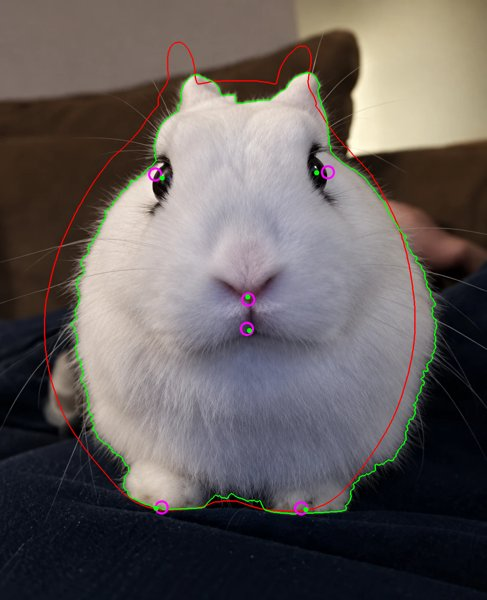
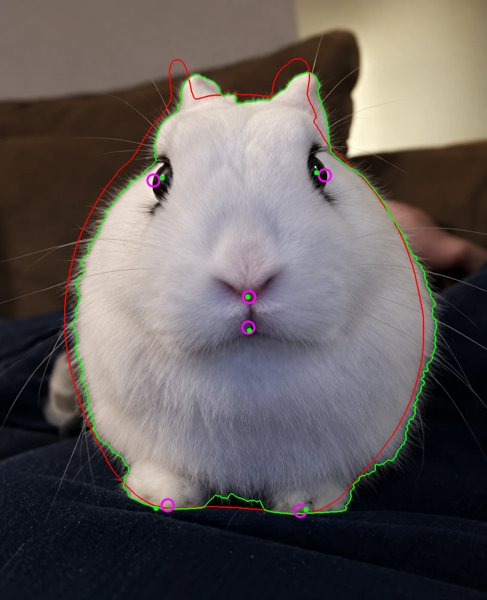
Step A done as far as the photos allow: every photo traced; cameras solved and checked by eye
Hold: master, sheet 01-04, 07-09, 11, 17, 18; close-ups 02, 03, 06, 08,
09, 10, 12, 14, 19-21, 25, 26; most of the edited set. Rough: edited loaf
and peet-lift-left, close-up 07. Not solved (too little of him, or his
posture too far from the model's): sheet 10, 13-16, one edited head turn,
close-ups 01, 04, 05, 11, 13, 15-18, 22-24, 27 (used by eye in step F).

Claude-Session: https://claude.ai/code/session_01Jpq1ePz28RyGQHC2YVxQdH

Changed region(s): [[0.0616, 0.06, 0.8932, 0.87], [0.4004, 0.81, 0.6776, 0.87], [0.4928, 0.48, 0.5236, 0.57]]

diff --git a/docs/MEASURING.md b/docs/MEASURING.md
@@ -166,6 +166,42 @@ and shown to the owner.
   sits a little high and its mouth split a little low (about 25 px each:
   the model's nose-to-mouth is longer than his here); his ears are bigger
   and set wider.
-- Step A so far: cameras fitted for the master and sheet 02, 03, 04, 07,
-  08, 09 (earlier) and close-ups 06, 25, 21, 02, 19, 20. Still to do: the
-  other close-ups, sheet 01, 05, 06, 10-18, the edited set.
+- Step A, all photos (October 2026). Every photo's outline traced
+  (checkpoints/cp4/outlines/: sNN sheet, cNN close-up, e_<name> edited).
+  Landmarks placed by eye on gridded images (eyes, nose tip, mouth split,
+  front peets; checkpoints/cp4/cams/landmarks2d.json, with a rough
+  direction and his head's turn as read from each photo). Front peets added
+  to the 3D landmarks (cast from the master, made mirror images).
+- Solver changes (tools/solve_cams.py), after the first runs went wrong
+  (owner: "some of them keep failing"): letting his head turn freely let
+  the solver tilt his head (26 deg in sheet 14) to hit a few points instead of
+  placing the camera by his body. Now: (1) the camera is placed from his
+  body first (outline, peets; head held as read from the photo), then only
+  his head turn is fitted, kept near that reading (turn 25, nod 20, tilt 4
+  deg); (2) where his body is in another posture (standing tall in 11/12,
+  hunched in 13/14, from below in 10 and 17, head turned in 15/16, walking
+  off in two edited ones: frame "head"), the camera is placed from his head
+  alone (face points and the head's own rim against his outline). The
+  owner's note on the white-background photos: all taken from directly in
+  front, like the master, as he moved off however he liked.
+- Results, judged by eye on each check image (photo, his outline green,
+  model red, landmarks):
+  - Hold (model outline on his, points within ~5-25 px): master; sheet
+    01, 02, 03, 04, 07, 08, 09, 18 (01 and 18 from their first solve, which
+    fit better by eye than the re-solve); sheet 11 and 17 (head-only);
+    close-ups 02, 03, 06, 08, 09, 10, 12, 14, 19, 20, 21, 25, 26; edited
+    front_blink, front_head_lifted, front_head_lowered, front_peet_lift_right,
+    head_turn_left_mouth_closed, back_3q_left_high, front_3q_left_toddle.
+  - Rough (usable loosely): edited front_loaf and front_peet_lift_left
+    (face points land; he is loafed lower and wider than the model);
+    close-up 07 (outline fits, his right eye 50 px off).
+  - Not solved (too little of him, or his posture too far from the model's
+    for the head rim to place it): sheet 10, 13, 14, 15, 16; edited
+    head_turn_right_mouth_open; close-ups 11, 16, 27 (muzzle only: two
+    points in a line), 13 (one eye), and with no landmarks at all 01, 04, 05
+    (one eye), 15 (one ear), 17, 18, 22, 23, 24 (peets, underbody). These
+    are used by eye for their part in step F, not measured.
+  - Sheet 05, 06: cameras from the first checkpoint (panels), unchanged.
+- Seen across the front photos (for step F): his eyes sit closer together
+  than the model's (the model's land 15-50 px wider in every front view);
+  his head is higher and fuller above the eyes (close-ups 02, 19, 20, 25).

diff --git a/tasks/02_rebuild_from_parts.md b/tasks/02_rebuild_from_parts.md
@@ -241,7 +241,7 @@ Looked at large renders beside master, sheet 02/08/03/07/09, close-ups 06/19/21;
 
 ## Direct measuring (owner's method, docs/MEASURING.md) -- awaiting go
 
-- [ ] A. (in progress: close-ups 06, 25, 21, 02, 19, 20 solved, re-solved in his frame; the other photos still to do) Solve the camera (and his head pose) for every photo used, close-ups and edited included, from hand-traced landmarks + outline; retire the guessed plain directions. (Owner: close-up 06 render was not the same angle; eye sockets came out wrong because of it.)
+- [x] A. (done as far as the photos allow: see docs/MEASURING.md "Results"; some photos show too little of him or another posture and are used by eye) Solve the camera (and his head pose) for every photo used, close-ups and edited included, from hand-traced landmarks + outline; retire the guessed plain directions. (Owner: close-up 06 render was not the same angle; eye sockets came out wrong because of it.)
 - [x] B. His frame from the master (he looks straight forward there): midline plane vertical, facing the master camera, through his face; not the carving's 2.4 deg-turned plane. (Owner: he is angled slightly left.) Done: x 1.7 mm, turned -0.23 deg; his head at rest moved 9.8 mm onto it, every photo's pose re-expressed (docs/CARVING.md section 17).
 - [x] Rebuild the carving in his frame; re-seat the eyes. (work/b/eyes4e; checked by eye against the master: centred, both sides matching.)
 - [ ] C. Maps from each photo: normals (DSINE / StableNormal), relative depth (Depth Anything V2), light from the outline + shape from shading (his fur is one colour), landmarks.
